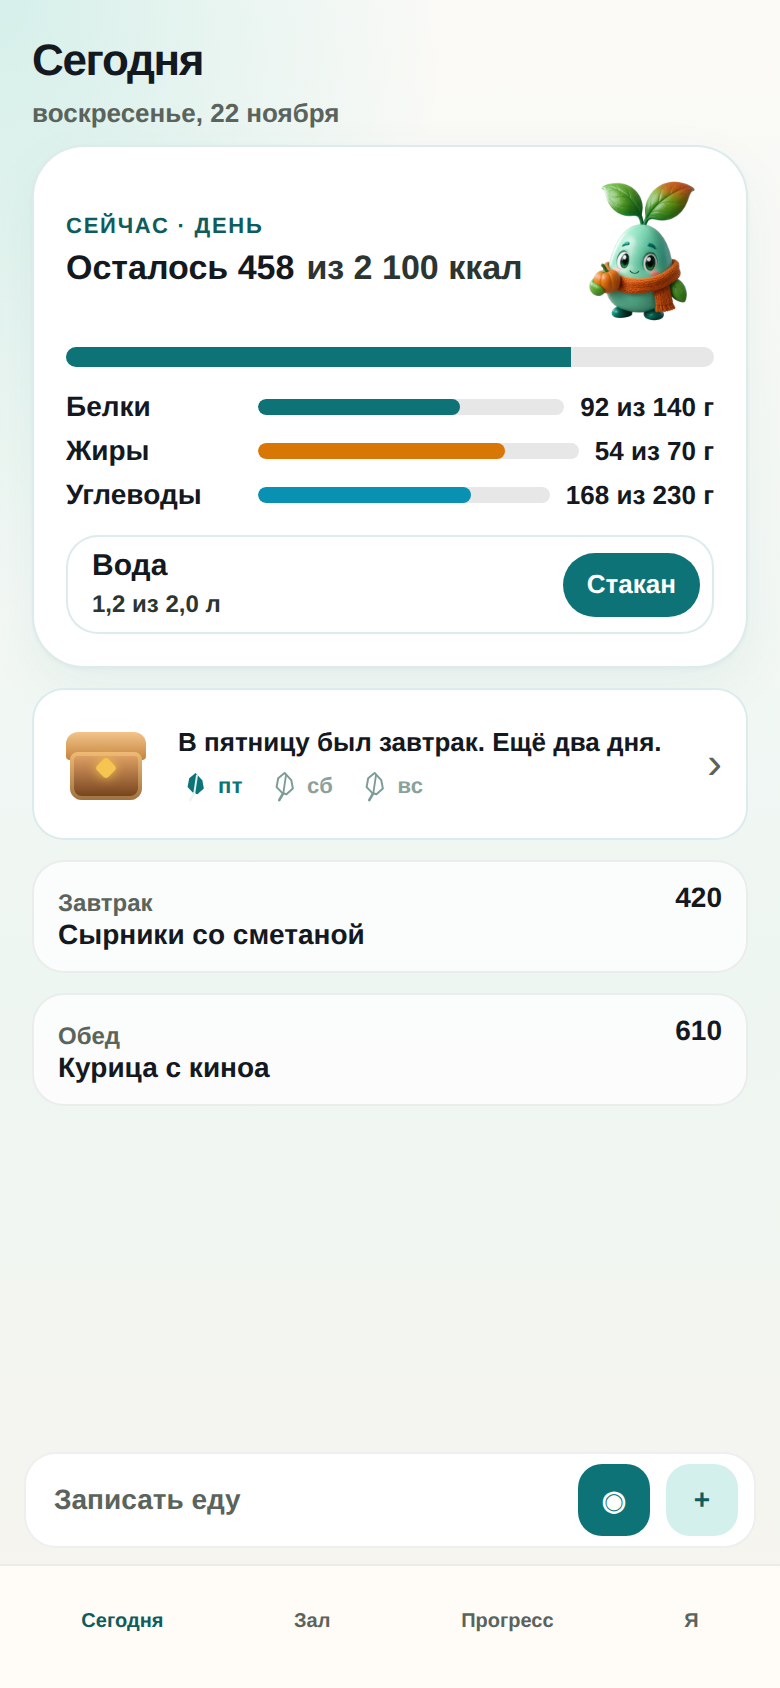
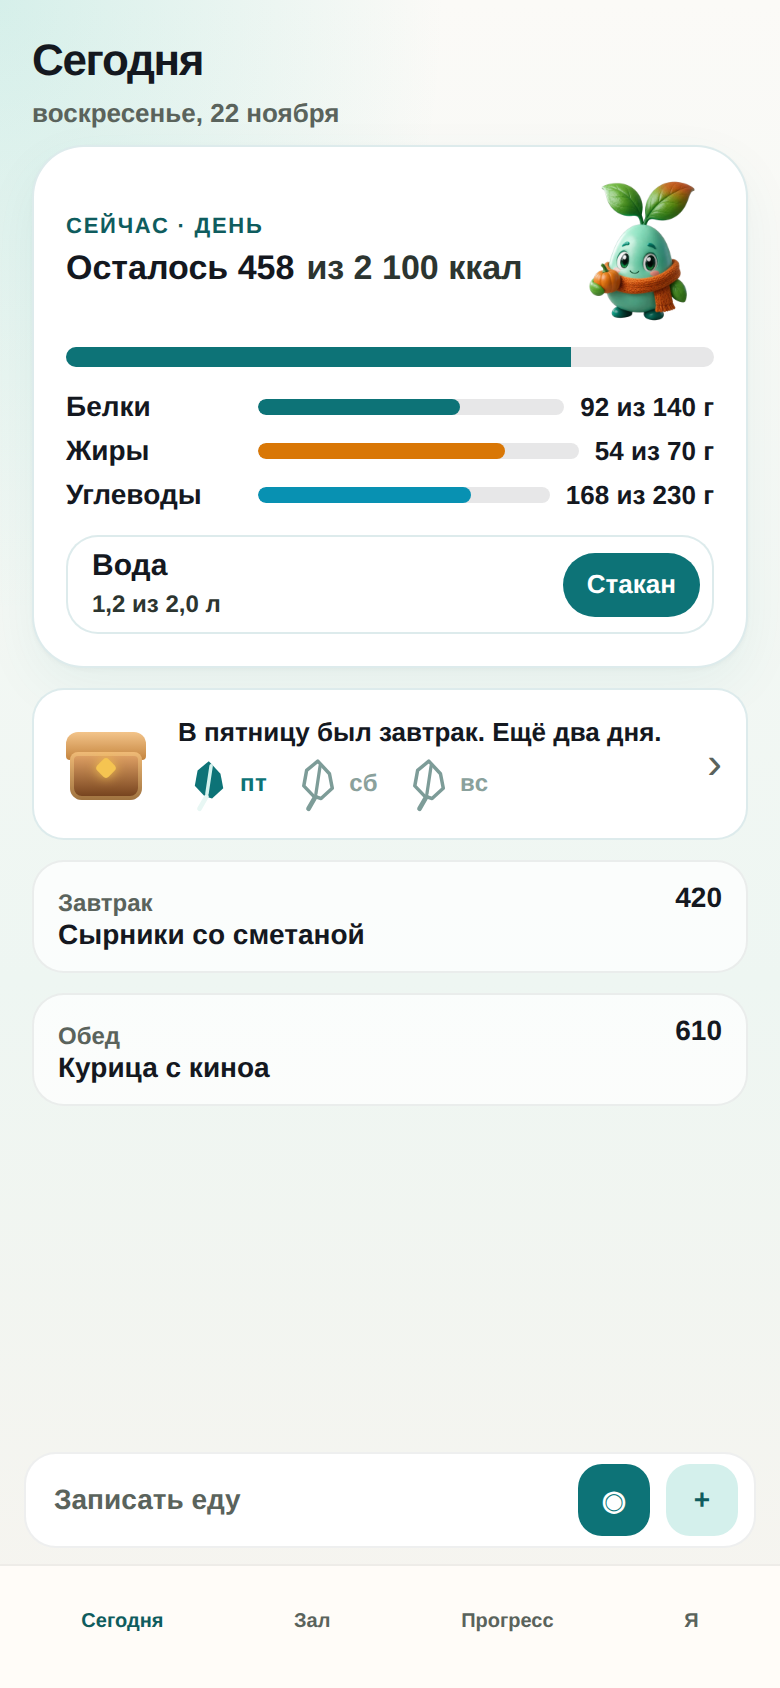
docs: крупнее листки в полоске сундука
Иконки дней 28 px, подписи рядом, полоска по-прежнему ровная: сундук, фраза, три дня, шеврон.

Changed region(s): [[0.2154, 0.4313, 0.8615, 0.4929]]

diff --git a/docs/chests-redesign/concept/today-0.html b/docs/chests-redesign/concept/today-0.html
@@ -35,7 +35,7 @@
         <span class="mini-chest " aria-hidden="true"><i class="lid"></i><i class="box"></i><i class="gem"></i></span>
         <span>
           <p>Пока пусто. Завтрак или зал — и первый листок.</p>
-          <span class="leafs"><span class="lf "><svg width="16" height="16" viewBox="0 0 24 24" aria-hidden="true"><path class="blade" style="fill:none;stroke:#7d9c98;stroke-width:1.5;stroke-linejoin:round" d="M13.2 2.2 18.2 7.6 19.4 13.8 14.6 18.2 11.4 17.2 7.2 12.8 8.4 6.2Z"/><path d="M12.2 17.4 9.2 22.6" fill="none" stroke="#7d9c98" stroke-width="2" stroke-linecap="round"/><path d="M12.4 16.2 14.2 4.2" fill="none" stroke="#7d9c98" stroke-width="1.4" stroke-linecap="round"/></svg><small>пт</small></span><span class="lf "><svg width="16" height="16" viewBox="0 0 24 24" aria-hidden="true"><path class="blade" style="fill:none;stroke:#7d9c98;stroke-width:1.5;stroke-linejoin:round" d="M13.2 2.2 18.2 7.6 19.4 13.8 14.6 18.2 11.4 17.2 7.2 12.8 8.4 6.2Z"/><path d="M12.2 17.4 9.2 22.6" fill="none" stroke="#7d9c98" stroke-width="2" stroke-linecap="round"/><path d="M12.4 16.2 14.2 4.2" fill="none" stroke="#7d9c98" stroke-width="1.4" stroke-linecap="round"/></svg><small>сб</small></span><span class="lf wait"><svg width="16" height="16" viewBox="0 0 24 24" aria-hidden="true"><path class="blade" style="fill:none;stroke:#0d7377;stroke-width:1.6;stroke-linejoin:round" d="M13.2 2.2 18.2 7.6 19.4 13.8 14.6 18.2 11.4 17.2 7.2 12.8 8.4 6.2Z"/><path d="M12.2 17.4 9.2 22.6" fill="none" stroke="#0d7377" stroke-width="2" stroke-linecap="round"/><path d="M12.4 16.2 14.2 4.2" fill="none" stroke="#0d7377" stroke-width="1.4" stroke-linecap="round"/></svg><small>вс</small></span></span>
+          <span class="leafs"><span class="lf "><svg width="28" height="28" viewBox="0 0 24 24" aria-hidden="true"><path class="blade" style="fill:none;stroke:#7d9c98;stroke-width:1.5;stroke-linejoin:round" d="M13.2 2.2 18.2 7.6 19.4 13.8 14.6 18.2 11.4 17.2 7.2 12.8 8.4 6.2Z"/><path d="M12.2 17.4 9.2 22.6" fill="none" stroke="#7d9c98" stroke-width="2" stroke-linecap="round"/><path d="M12.4 16.2 14.2 4.2" fill="none" stroke="#7d9c98" stroke-width="1.4" stroke-linecap="round"/></svg><small>пт</small></span><span class="lf "><svg width="28" height="28" viewBox="0 0 24 24" aria-hidden="true"><path class="blade" style="fill:none;stroke:#7d9c98;stroke-width:1.5;stroke-linejoin:round" d="M13.2 2.2 18.2 7.6 19.4 13.8 14.6 18.2 11.4 17.2 7.2 12.8 8.4 6.2Z"/><path d="M12.2 17.4 9.2 22.6" fill="none" stroke="#7d9c98" stroke-width="2" stroke-linecap="round"/><path d="M12.4 16.2 14.2 4.2" fill="none" stroke="#7d9c98" stroke-width="1.4" stroke-linecap="round"/></svg><small>сб</small></span><span class="lf wait"><svg width="28" height="28" viewBox="0 0 24 24" aria-hidden="true"><path class="blade" style="fill:none;stroke:#0d7377;stroke-width:1.6;stroke-linejoin:round" d="M13.2 2.2 18.2 7.6 19.4 13.8 14.6 18.2 11.4 17.2 7.2 12.8 8.4 6.2Z"/><path d="M12.2 17.4 9.2 22.6" fill="none" stroke="#0d7377" stroke-width="2" stroke-linecap="round"/><path d="M12.4 16.2 14.2 4.2" fill="none" stroke="#0d7377" stroke-width="1.4" stroke-linecap="round"/></svg><small>вс</small></span></span>
         </span>
         <span class="chev" aria-hidden="true">›</span>
       </button>

diff --git a/docs/chests-redesign/concept/today-1.html b/docs/chests-redesign/concept/today-1.html
@@ -35,7 +35,7 @@
         <span class="mini-chest " aria-hidden="true"><i class="lid"></i><i class="box"></i><i class="gem"></i></span>
         <span>
           <p>В пятницу был завтрак. Ещё два дня.</p>
-          <span class="leafs"><span class="lf on"><svg width="16" height="16" viewBox="0 0 24 24" aria-hidden="true"><path class="blade" style="fill:#0d7377;stroke:none" d="M13.2 2.2 18.2 7.6 19.4 13.8 14.6 18.2 11.4 17.2 7.2 12.8 8.4 6.2Z"/><path d="M12.2 17.4 9.2 22.6" fill="none" stroke="#e8f7f4" stroke-width="2" stroke-linecap="round"/><path d="M12.4 16.2 14.2 4.2" fill="none" stroke="#d5f3ee" stroke-width="1.5" stroke-linecap="round"/></svg><small>пт</small></span><span class="lf "><svg width="16" height="16" viewBox="0 0 24 24" aria-hidden="true"><path class="blade" style="fill:none;stroke:#7d9c98;stroke-width:1.5;stroke-linejoin:round" d="M13.2 2.2 18.2 7.6 19.4 13.8 14.6 18.2 11.4 17.2 7.2 12.8 8.4 6.2Z"/><path d="M12.2 17.4 9.2 22.6" fill="none" stroke="#7d9c98" stroke-width="2" stroke-linecap="round"/><path d="M12.4 16.2 14.2 4.2" fill="none" stroke="#7d9c98" stroke-width="1.4" stroke-linecap="round"/></svg><small>сб</small></span><span class="lf "><svg width="16" height="16" viewBox="0 0 24 24" aria-hidden="true"><path class="blade" style="fill:none;stroke:#7d9c98;stroke-width:1.5;stroke-linejoin:round" d="M13.2 2.2 18.2 7.6 19.4 13.8 14.6 18.2 11.4 17.2 7.2 12.8 8.4 6.2Z"/><path d="M12.2 17.4 9.2 22.6" fill="none" stroke="#7d9c98" stroke-width="2" stroke-linecap="round"/><path d="M12.4 16.2 14.2 4.2" fill="none" stroke="#7d9c98" stroke-width="1.4" stroke-linecap="round"/></svg><small>вс</small></span></span>
+          <span class="leafs"><span class="lf on"><svg width="28" height="28" viewBox="0 0 24 24" aria-hidden="true"><path class="blade" style="fill:#0d7377;stroke:none" d="M13.2 2.2 18.2 7.6 19.4 13.8 14.6 18.2 11.4 17.2 7.2 12.8 8.4 6.2Z"/><path d="M12.2 17.4 9.2 22.6" fill="none" stroke="#e8f7f4" stroke-width="2" stroke-linecap="round"/><path d="M12.4 16.2 14.2 4.2" fill="none" stroke="#d5f3ee" stroke-width="1.5" stroke-linecap="round"/></svg><small>пт</small></span><span class="lf "><svg width="28" height="28" viewBox="0 0 24 24" aria-hidden="true"><path class="blade" style="fill:none;stroke:#7d9c98;stroke-width:1.5;stroke-linejoin:round" d="M13.2 2.2 18.2 7.6 19.4 13.8 14.6 18.2 11.4 17.2 7.2 12.8 8.4 6.2Z"/><path d="M12.2 17.4 9.2 22.6" fill="none" stroke="#7d9c98" stroke-width="2" stroke-linecap="round"/><path d="M12.4 16.2 14.2 4.2" fill="none" stroke="#7d9c98" stroke-width="1.4" stroke-linecap="round"/></svg><small>сб</small></span><span class="lf "><svg width="28" height="28" viewBox="0 0 24 24" aria-hidden="true"><path class="blade" style="fill:none;stroke:#7d9c98;stroke-width:1.5;stroke-linejoin:round" d="M13.2 2.2 18.2 7.6 19.4 13.8 14.6 18.2 11.4 17.2 7.2 12.8 8.4 6.2Z"/><path d="M12.2 17.4 9.2 22.6" fill="none" stroke="#7d9c98" stroke-width="2" stroke-linecap="round"/><path d="M12.4 16.2 14.2 4.2" fill="none" stroke="#7d9c98" stroke-width="1.4" stroke-linecap="round"/></svg><small>вс</small></span></span>
         </span>
         <span class="chev" aria-hidden="true">›</span>
       </button>

diff --git a/docs/chests-redesign/concept/sheet.html b/docs/chests-redesign/concept/sheet.html
@@ -35,7 +35,7 @@
         <span class="mini-chest rare" aria-hidden="true"><i class="lid"></i><i class="box"></i><i class="gem"></i></span>
         <span>
           <p>Вчера зал, позавчера завтрак — остался сегодняшний листок.</p>
-          <span class="leafs"><span class="lf on"><svg width="16" height="16" viewBox="0 0 24 24" aria-hidden="true"><path class="blade" style="fill:#0d7377;stroke:none" d="M13.2 2.2 18.2 7.6 19.4 13.8 14.6 18.2 11.4 17.2 7.2 12.8 8.4 6.2Z"/><path d="M12.2 17.4 9.2 22.6" fill="none" stroke="#e8f7f4" stroke-width="2" stroke-linecap="round"/><path d="M12.4 16.2 14.2 4.2" fill="none" stroke="#d5f3ee" stroke-width="1.5" stroke-linecap="round"/></svg><small>пт</small></span><span class="lf on"><svg width="16" height="16" viewBox="0 0 24 24" aria-hidden="true"><path class="blade" style="fill:#0d7377;stroke:none" d="M13.2 2.2 18.2 7.6 19.4 13.8 14.6 18.2 11.4 17.2 7.2 12.8 8.4 6.2Z"/><path d="M12.2 17.4 9.2 22.6" fill="none" stroke="#e8f7f4" stroke-width="2" stroke-linecap="round"/><path d="M12.4 16.2 14.2 4.2" fill="none" stroke="#d5f3ee" stroke-width="1.5" stroke-linecap="round"/></svg><small>сб</small></span><span class="lf wait"><svg width="16" height="16" viewBox="0 0 24 24" aria-hidden="true"><path class="blade" style="fill:none;stroke:#0d7377;stroke-width:1.6;stroke-linejoin:round" d="M13.2 2.2 18.2 7.6 19.4 13.8 14.6 18.2 11.4 17.2 7.2 12.8 8.4 6.2Z"/><path d="M12.2 17.4 9.2 22.6" fill="none" stroke="#0d7377" stroke-width="2" stroke-linecap="round"/><path d="M12.4 16.2 14.2 4.2" fill="none" stroke="#0d7377" stroke-width="1.4" stroke-linecap="round"/></svg><small>вс</small></span></span>
+          <span class="leafs"><span class="lf on"><svg width="28" height="28" viewBox="0 0 24 24" aria-hidden="true"><path class="blade" style="fill:#0d7377;stroke:none" d="M13.2 2.2 18.2 7.6 19.4 13.8 14.6 18.2 11.4 17.2 7.2 12.8 8.4 6.2Z"/><path d="M12.2 17.4 9.2 22.6" fill="none" stroke="#e8f7f4" stroke-width="2" stroke-linecap="round"/><path d="M12.4 16.2 14.2 4.2" fill="none" stroke="#d5f3ee" stroke-width="1.5" stroke-linecap="round"/></svg><small>пт</small></span><span class="lf on"><svg width="28" height="28" viewBox="0 0 24 24" aria-hidden="true"><path class="blade" style="fill:#0d7377;stroke:none" d="M13.2 2.2 18.2 7.6 19.4 13.8 14.6 18.2 11.4 17.2 7.2 12.8 8.4 6.2Z"/><path d="M12.2 17.4 9.2 22.6" fill="none" stroke="#e8f7f4" stroke-width="2" stroke-linecap="round"/><path d="M12.4 16.2 14.2 4.2" fill="none" stroke="#d5f3ee" stroke-width="1.5" stroke-linecap="round"/></svg><small>сб</small></span><span class="lf wait"><svg width="28" height="28" viewBox="0 0 24 24" aria-hidden="true"><path class="blade" style="fill:none;stroke:#0d7377;stroke-width:1.6;stroke-linejoin:round" d="M13.2 2.2 18.2 7.6 19.4 13.8 14.6 18.2 11.4 17.2 7.2 12.8 8.4 6.2Z"/><path d="M12.2 17.4 9.2 22.6" fill="none" stroke="#0d7377" stroke-width="2" stroke-linecap="round"/><path d="M12.4 16.2 14.2 4.2" fill="none" stroke="#0d7377" stroke-width="1.4" stroke-linecap="round"/></svg><small>вс</small></span></span>
         </span>
         <span class="chev" aria-hidden="true">›</span>
       </button>

diff --git a/docs/chests-redesign/concept/today.html b/docs/chests-redesign/concept/today.html
@@ -35,7 +35,7 @@
         <span class="mini-chest rare" aria-hidden="true"><i class="lid"></i><i class="box"></i><i class="gem"></i></span>
         <span>
           <p>Вчера зал, позавчера завтрак — остался сегодняшний листок.</p>
-          <span class="leafs"><span class="lf on"><svg width="16" height="16" viewBox="0 0 24 24" aria-hidden="true"><path class="blade" style="fill:#0d7377;stroke:none" d="M13.2 2.2 18.2 7.6 19.4 13.8 14.6 18.2 11.4 17.2 7.2 12.8 8.4 6.2Z"/><path d="M12.2 17.4 9.2 22.6" fill="none" stroke="#e8f7f4" stroke-width="2" stroke-linecap="round"/><path d="M12.4 16.2 14.2 4.2" fill="none" stroke="#d5f3ee" stroke-width="1.5" stroke-linecap="round"/></svg><small>пт</small></span><span class="lf on"><svg width="16" height="16" viewBox="0 0 24 24" aria-hidden="true"><path class="blade" style="fill:#0d7377;stroke:none" d="M13.2 2.2 18.2 7.6 19.4 13.8 14.6 18.2 11.4 17.2 7.2 12.8 8.4 6.2Z"/><path d="M12.2 17.4 9.2 22.6" fill="none" stroke="#e8f7f4" stroke-width="2" stroke-linecap="round"/><path d="M12.4 16.2 14.2 4.2" fill="none" stroke="#d5f3ee" stroke-width="1.5" stroke-linecap="round"/></svg><small>сб</small></span><span class="lf wait"><svg width="16" height="16" viewBox="0 0 24 24" aria-hidden="true"><path class="blade" style="fill:none;stroke:#0d7377;stroke-width:1.6;stroke-linejoin:round" d="M13.2 2.2 18.2 7.6 19.4 13.8 14.6 18.2 11.4 17.2 7.2 12.8 8.4 6.2Z"/><path d="M12.2 17.4 9.2 22.6" fill="none" stroke="#0d7377" stroke-width="2" stroke-linecap="round"/><path d="M12.4 16.2 14.2 4.2" fill="none" stroke="#0d7377" stroke-width="1.4" stroke-linecap="round"/></svg><small>вс</small></span></span>
+          <span class="leafs"><span class="lf on"><svg width="28" height="28" viewBox="0 0 24 24" aria-hidden="true"><path class="blade" style="fill:#0d7377;stroke:none" d="M13.2 2.2 18.2 7.6 19.4 13.8 14.6 18.2 11.4 17.2 7.2 12.8 8.4 6.2Z"/><path d="M12.2 17.4 9.2 22.6" fill="none" stroke="#e8f7f4" stroke-width="2" stroke-linecap="round"/><path d="M12.4 16.2 14.2 4.2" fill="none" stroke="#d5f3ee" stroke-width="1.5" stroke-linecap="round"/></svg><small>пт</small></span><span class="lf on"><svg width="28" height="28" viewBox="0 0 24 24" aria-hidden="true"><path class="blade" style="fill:#0d7377;stroke:none" d="M13.2 2.2 18.2 7.6 19.4 13.8 14.6 18.2 11.4 17.2 7.2 12.8 8.4 6.2Z"/><path d="M12.2 17.4 9.2 22.6" fill="none" stroke="#e8f7f4" stroke-width="2" stroke-linecap="round"/><path d="M12.4 16.2 14.2 4.2" fill="none" stroke="#d5f3ee" stroke-width="1.5" stroke-linecap="round"/></svg><small>сб</small></span><span class="lf wait"><svg width="28" height="28" viewBox="0 0 24 24" aria-hidden="true"><path class="blade" style="fill:none;stroke:#0d7377;stroke-width:1.6;stroke-linejoin:round" d="M13.2 2.2 18.2 7.6 19.4 13.8 14.6 18.2 11.4 17.2 7.2 12.8 8.4 6.2Z"/><path d="M12.2 17.4 9.2 22.6" fill="none" stroke="#0d7377" stroke-width="2" stroke-linecap="round"/><path d="M12.4 16.2 14.2 4.2" fill="none" stroke="#0d7377" stroke-width="1.4" stroke-linecap="round"/></svg><small>вс</small></span></span>
         </span>
         <span class="chev" aria-hidden="true">›</span>
       </button>

diff --git a/docs/chests-redesign/concept/earned.html b/docs/chests-redesign/concept/earned.html
@@ -35,7 +35,7 @@
         <span class="mini-chest rare" aria-hidden="true"><i class="lid"></i><i class="box"></i><i class="gem"></i></span>
         <span>
           <p>Три дня есть. Можно открывать.</p>
-          <span class="leafs"><span class="lf on"><svg width="16" height="16" viewBox="0 0 24 24" aria-hidden="true"><path class="blade" style="fill:#0d7377;stroke:none" d="M13.2 2.2 18.2 7.6 19.4 13.8 14.6 18.2 11.4 17.2 7.2 12.8 8.4 6.2Z"/><path d="M12.2 17.4 9.2 22.6" fill="none" stroke="#e8f7f4" stroke-width="2" stroke-linecap="round"/><path d="M12.4 16.2 14.2 4.2" fill="none" stroke="#d5f3ee" stroke-width="1.5" stroke-linecap="round"/></svg><small>пт</small></span><span class="lf on"><svg width="16" height="16" viewBox="0 0 24 24" aria-hidden="true"><path class="blade" style="fill:#0d7377;stroke:none" d="M13.2 2.2 18.2 7.6 19.4 13.8 14.6 18.2 11.4 17.2 7.2 12.8 8.4 6.2Z"/><path d="M12.2 17.4 9.2 22.6" fill="none" stroke="#e8f7f4" stroke-width="2" stroke-linecap="round"/><path d="M12.4 16.2 14.2 4.2" fill="none" stroke="#d5f3ee" stroke-width="1.5" stroke-linecap="round"/></svg><small>сб</small></span><span class="lf on"><svg width="16" height="16" viewBox="0 0 24 24" aria-hidden="true"><path class="blade" style="fill:#0d7377;stroke:none" d="M13.2 2.2 18.2 7.6 19.4 13.8 14.6 18.2 11.4 17.2 7.2 12.8 8.4 6.2Z"/><path d="M12.2 17.4 9.2 22.6" fill="none" stroke="#e8f7f4" stroke-width="2" stroke-linecap="round"/><path d="M12.4 16.2 14.2 4.2" fill="none" stroke="#d5f3ee" stroke-width="1.5" stroke-linecap="round"/></svg><small>вс</small></span></span>
+          <span class="leafs"><span class="lf on"><svg width="28" height="28" viewBox="0 0 24 24" aria-hidden="true"><path class="blade" style="fill:#0d7377;stroke:none" d="M13.2 2.2 18.2 7.6 19.4 13.8 14.6 18.2 11.4 17.2 7.2 12.8 8.4 6.2Z"/><path d="M12.2 17.4 9.2 22.6" fill="none" stroke="#e8f7f4" stroke-width="2" stroke-linecap="round"/><path d="M12.4 16.2 14.2 4.2" fill="none" stroke="#d5f3ee" stroke-width="1.5" stroke-linecap="round"/></svg><small>пт</small></span><span class="lf on"><svg width="28" height="28" viewBox="0 0 24 24" aria-hidden="true"><path class="blade" style="fill:#0d7377;stroke:none" d="M13.2 2.2 18.2 7.6 19.4 13.8 14.6 18.2 11.4 17.2 7.2 12.8 8.4 6.2Z"/><path d="M12.2 17.4 9.2 22.6" fill="none" stroke="#e8f7f4" stroke-width="2" stroke-linecap="round"/><path d="M12.4 16.2 14.2 4.2" fill="none" stroke="#d5f3ee" stroke-width="1.5" stroke-linecap="round"/></svg><small>сб</small></span><span class="lf on"><svg width="28" height="28" viewBox="0 0 24 24" aria-hidden="true"><path class="blade" style="fill:#0d7377;stroke:none" d="M13.2 2.2 18.2 7.6 19.4 13.8 14.6 18.2 11.4 17.2 7.2 12.8 8.4 6.2Z"/><path d="M12.2 17.4 9.2 22.6" fill="none" stroke="#e8f7f4" stroke-width="2" stroke-linecap="round"/><path d="M12.4 16.2 14.2 4.2" fill="none" stroke="#d5f3ee" stroke-width="1.5" stroke-linecap="round"/></svg><small>вс</small></span></span>
         </span>
         <span class="chev" aria-hidden="true">›</span>
       </button>

diff --git a/docs/chests-redesign/concept/rich.css b/docs/chests-redesign/concept/rich.css
@@ -90,7 +90,7 @@
   grid-template-columns: 48px minmax(0, 1fr) 16px;
   align-items: center;
   column-gap: 12px;
-  padding: 8px 12px;
+  padding: 6px 12px;
   border-radius: 16px;
   background: #fff;
   border: 1px solid rgba(13, 115, 119, 0.14);
@@ -99,15 +99,18 @@
   color: inherit;
 }
 .chest-strip p {
-  margin: 0 0 6px;
+  margin: 0 0 4px;
   font-size: 13px;
   font-weight: 750;
   line-height: 1.25;
   text-align: left;
 }
 .leafs { display: flex; gap: 12px; align-items: center; }
+.chest-strip .leafs { gap: 10px; }
 .lf { display: inline-flex; align-items: center; gap: 4px; color: #8aa19c; }
+.chest-strip .lf { gap: 3px; }
 .lf small { font-size: 11px; font-weight: 800; letter-spacing: 0.02em; }
+.chest-strip .lf small { font-size: 12px; line-height: 1; }
 .lf svg { display: block; }
 .lf.on { color: #0d7377; }
 .lf.wait { color: #d97706; }
